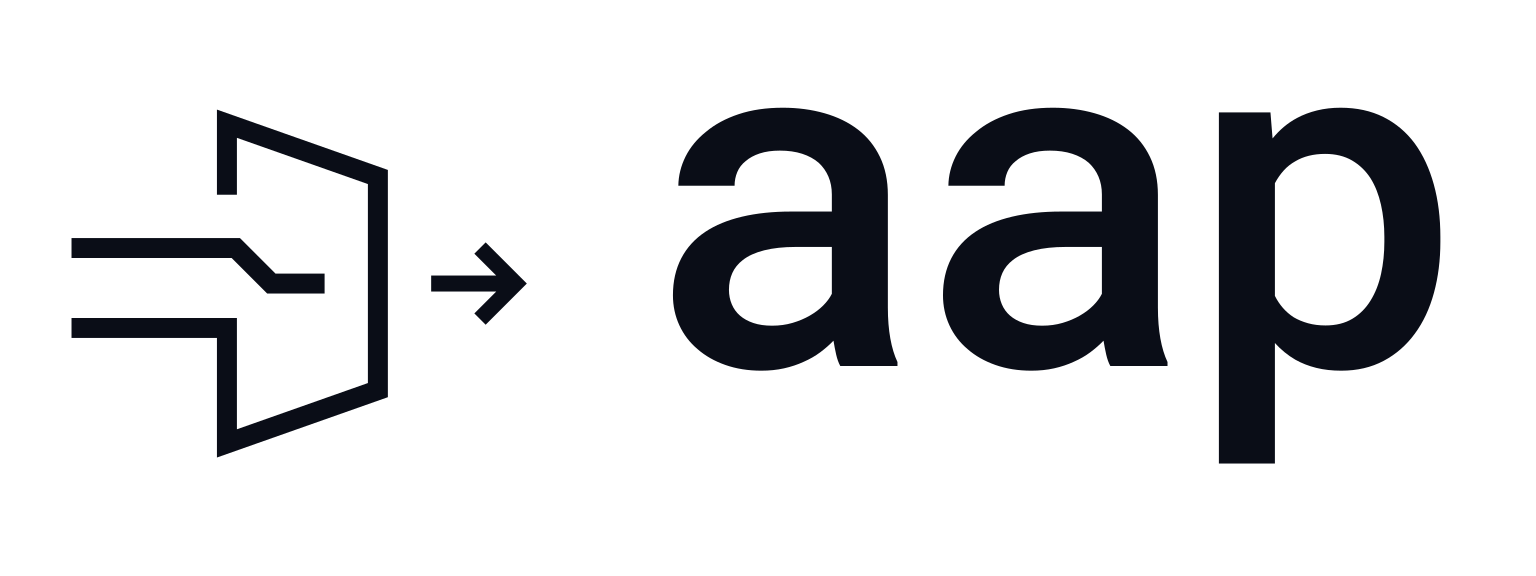
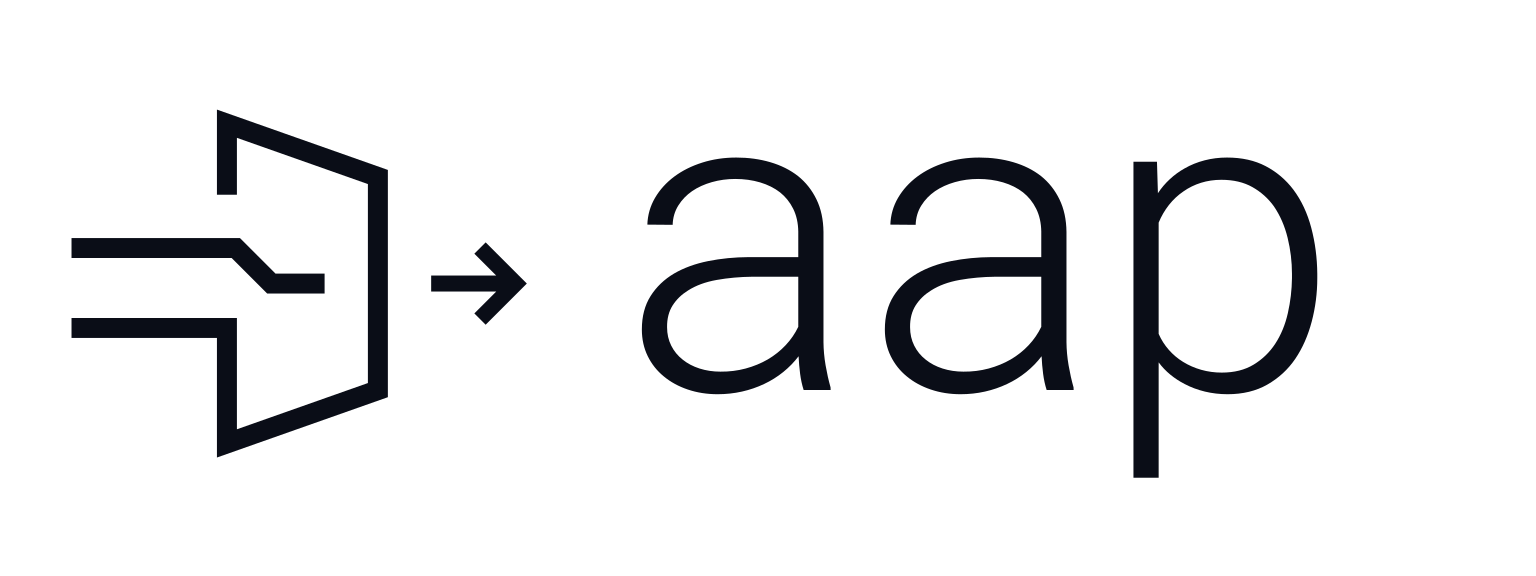
Balance AAP wordmark weight and alignment (#3)

Changed region(s): [[0.4062, 0.1875, 0.9375, 0.8438]]

diff --git a/website/components/site/logo.tsx b/website/components/site/logo.tsx
@@ -1,7 +1,7 @@
-// Outlined Roboto Mono Medium glyphs keep the approved spacing and shape
+// Outlined Roboto Mono Light glyphs keep the optical alignment and shape
 // consistent without a font load. Keep public/brand exports in sync.
-const A_PATH = "M846 0L1090 0L1090 17Q1070 59 1059.5 117.5Q1049 176 1049 249L1049 730Q1049 822 1015 892.5Q981 963 921 1009Q861 1055 778.5 1078.5Q696 1102 601 1102Q495 1102 412.5 1074.5Q330 1047 274 1000Q216 954 186 894Q156 834 155 769L395 769Q395 800 406.5 827.5Q418 855 442 874Q466 895 502.5 907Q539 919 588 919Q642 919 683.5 905.5Q725 892 754 867Q781 842 795.5 808Q810 774 810 732L810 659L636 659Q519 659 426.5 637Q334 615 271 573Q203 528 167.5 459.5Q132 391 132 302Q132 233 159.5 173.5Q187 114 237 72Q286 29 355.5 4.5Q425 -20 509 -20Q561 -20 606 -10Q651 0 690 18Q729 35 760.5 58.5Q792 82 817 108Q822 77 828.5 48.5Q835 20 846 0ZM555 172Q509 172 475 183.5Q441 195 418 215Q395 235 383 263.5Q371 292 371 325Q371 365 385.5 397Q400 429 430 452Q464 479 521 493.5Q578 508 656 508L810 508L810 308Q797 282 773 258Q749 234 716 215Q683 196 642.5 184Q602 172 555 172Z";
-const P_PATH = "M157 -416L396 -416L396 98Q415 77 437 59Q459 41 483 27Q524 4 572.5 -8Q621 -20 679 -20Q781 -20 860 22Q939 64 993 138Q1047 211 1074.5 312Q1102 413 1102 530L1102 551Q1102 673 1074 774.5Q1046 876 993 949Q939 1022 859.5 1062Q780 1102 676 1102Q623 1102 576 1090.5Q529 1079 490 1058Q460 1042 434 1020Q408 998 386 971L377 1082L157 1082ZM863 551L863 530Q863 458 849 393.5Q835 329 804 279Q774 230 726.5 201.5Q679 173 612 173Q571 173 537 182.5Q503 192 476 208Q450 225 430 248Q410 271 396 299L396 780Q412 810 433.5 834Q455 858 484 874Q509 889 541 897Q573 905 610 905Q677 905 725 877Q773 849 804 801Q834 753 848.5 688.5Q863 624 863 551Z";
+const A_PATH = "M937 0H1065L1064.5 12.5Q1050.5 62 1041.0 117.25Q1031.5 172.5 1031 227V749.5Q1030 837.5 997.75 903.75Q965.5 970 910 1014.5Q854 1058 778.75 1080.0Q703.5 1102 617.5 1102Q531.5 1102 456.0 1078.0Q380.5 1054 324 1012Q266.5 969 232.5 911.0Q198.5 853 196 784L316 783Q317.5 834 342.75 874.5Q368 915 408.5 943Q449 970.5 502.0 985.5Q555 1000.5 612.5 1000.5Q676 1000.5 730.5 984.25Q785 968 825 937Q864.5 905.5 887.5 859.0Q910.5 812.5 911.5 751.5V630H677Q575.5 629.5 483.75 611.0Q392 592.5 322.5 552Q252.5 510.5 211.25 445.25Q170 380 170 287Q170 217.5 197.75 160.75Q225.5 104 274 64.5Q322 24.5 387.75 2.25Q453.5 -20 529 -20Q589 -20 644.5 -7.5Q700 5 749.5 28.5Q798.5 51.5 840.0 85.0Q881.5 118.5 913 160Q915 117.5 920.25 76.75Q925.5 36 937 0ZM542.5 87Q490 87 443.75 101.75Q397.5 116.5 363.5 144Q329 171 309.25 210.25Q289.5 249.5 289.5 298Q289 358.5 315.75 400.75Q342.5 443 388.5 471.5Q444.5 507.5 524.75 521.75Q605 536 693.5 537H911.5V299.5Q888.5 251.5 851.5 212.25Q814.5 173 767 145Q718.5 117 661.75 101.75Q605 86.5 542.5 87Z";
+const P_PATH = "M196.5 -416H316V131Q340 98.5 371.5 72.75Q403 47 439 28.5Q483.5 5 535.25 -7.5Q587 -20 642.5 -20Q751.5 -20 831.75 26.0Q912 72 963.5 147.5Q1015 223.5 1041.5 323.75Q1068 424 1068 530V551Q1067 664.5 1039.5 768.75Q1012 873 954.5 950Q901 1020.5 823.25 1061.25Q745.5 1102 640 1102Q584.5 1102 533.5 1088.75Q482.5 1075.5 439 1050.5Q401.5 1029.5 369.25 999.75Q337 970 312.5 933L308 1082H196.5ZM948 551V530Q947 446.5 928.5 364.5Q910 282.5 868.5 219Q829 158.5 766.5 120.5Q704 82.5 615 82.5Q564.5 82.5 517.75 95.75Q471 109 431.5 133.5Q394 156.5 364.25 190.25Q334.5 224 316 266V793.5Q335 839.5 364.75 877.25Q394.5 915 433.5 941.5Q471 968 516.5 982.25Q562 996.5 613 996.5Q699.5 996.5 760.75 961.75Q822 927 862.5 870.5Q907 805 927.5 721.0Q948 637 948 551Z";
 
 export function Logo({ className }: { className?: string }) {
   return (
@@ -11,10 +11,10 @@ export function Logo({ className }: { className?: string }) {
         <path d="M8 36 H45 L53 44 H65" />
         <path d="M89 44 H108 M100 36 L108 44 L100 52" strokeWidth="3.6" />
       </g>
-      <g transform="translate(107 61)" fill="currentColor">
-        <path d={A_PATH} transform="scale(.0390625 -.0390625)" />
-        <path d={A_PATH} transform="translate(45.0078125 0) scale(.0390625 -.0390625)" />
-        <path d={P_PATH} transform="translate(90.015625 0) scale(.0390625 -.0390625)" />
+      <g transform="translate(101 65)" fill="currentColor">
+        <path d={A_PATH} transform="scale(.03515625 -.03515625)" />
+        <path d={A_PATH} transform="translate(40.5 0) scale(.03515625 -.03515625)" />
+        <path d={P_PATH} transform="translate(81 0) scale(.03515625 -.03515625)" />
       </g>
     </svg>
   );

diff --git a/website/public/brand/README.md b/website/public/brand/README.md
@@ -1,6 +1,6 @@
 # AAP brand assets
 
-The AAP symbol shows two agent flows entering an angular approval gate and one approved output. The lowercase wordmark uses outlined Roboto Mono Medium glyphs with optical spacing.
+The AAP symbol shows two agent flows entering an angular approval gate and one approved output. The lowercase wordmark uses outlined Roboto Mono Light glyphs with optical spacing. Its lighter strokes and smaller size balance the symbol, with the letter bodies optically centered on the output arrow.
 
 | Files | Use |
 | --- | --- |
